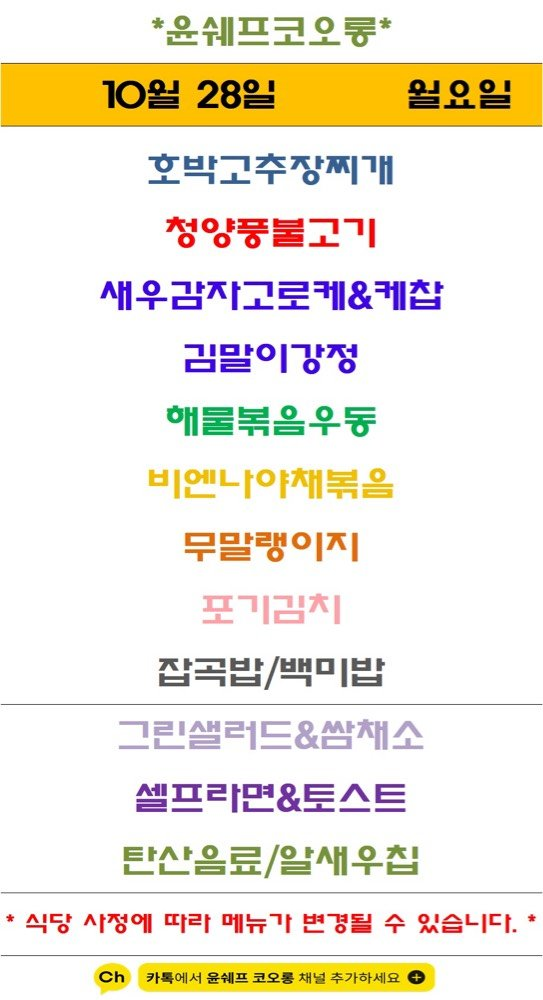
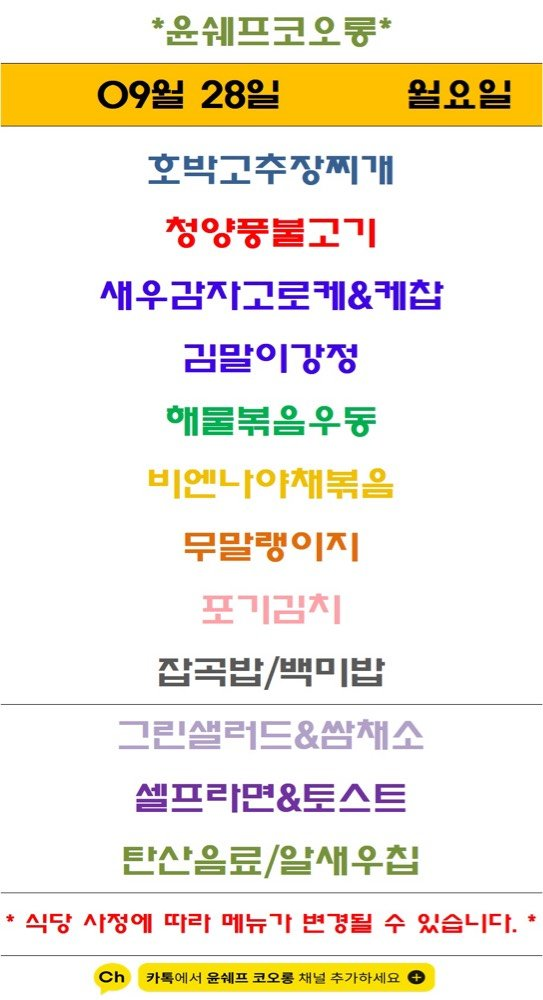
Update menu board assets

Changed region(s): [[0.1768, 0.062, 0.5304, 0.124]]

diff --git a/menu-today/index.html b/menu-today/index.html
@@ -209,7 +209,7 @@
 
     <section class="meta-bar">
       <div class="meta-card"><div class="meta-label">기준 날짜</div><div class="meta-value">2026년 9월 28일 월요일</div></div>
-      <div class="meta-card"><div class="meta-label">최종 가져온 시간</div><div class="meta-value">2026-09-28 09:16:00</div></div>
+      <div class="meta-card"><div class="meta-label">최종 가져온 시간</div><div class="meta-value">2026-09-28 09:33:25</div></div>
       <div class="meta-card"><div class="meta-label">확인 완료</div><div class="meta-value">9개 식당</div></div>
       <div class="meta-card"><div class="meta-label">준비중</div><div class="meta-value">3개 채널</div></div>
     </section>
@@ -235,7 +235,7 @@
             <div class="sub">가산 어반워크</div>
           </div>
         </div>
-        <div class="menu-inline-image"><img src="./images/dasibom.png" alt="다시 봄 식단 이미지"></div><div class="info-note">메뉴 이미지는 갱신됐고, 텍스트는 자동 확인 중입니다. 식단 이미지를 확인해 주세요.</div>
+        <div class="menu-inline-image"><img src="./images/dasibom.png" alt="다시 봄 식단 이미지"></div><ul><li>냉삼소금구이</li><li>순살마니커텐더켓</li><li>사천미트볼함박조림</li><li>새콤미역나물</li><li>싱싱샐러드</li><li>배추김치</li><li>바지락콩나물국</li><li>FW 심프비빔밥</li><li>빼 빌라면</li></ul>
       </article>
 
       <article class="restaurant-card">
@@ -295,7 +295,7 @@
             <div class="sub">에이스테크노타워10차</div>
           </div>
         </div>
-        <div class="menu-inline-image"><img src="./images/thefoodsketch.png" alt="더푸드스케치 식단 이미지"></div><ul><li>“= 파채불고기</li><li>스크랭블에그</li><li>= 치스토마토파스타</li><li>= 양송이떡갈비</li><li>명란버터두부조림</li><li>오이생채</li><li>가든샐러드 / 드레싱</li><li>배주끝절이 / 응료</li><li>어묵국</li></ul>
+        <div class="menu-inline-image"><img src="./images/thefoodsketch.png" alt="더푸드스케치 식단 이미지"></div><ul><li>“= 파채불고기</li><li>스크랭블에그</li><li>= 치스토마토파스타</li><li>= 양송이떡갈비</li><li>명란버터두부조림</li><li>오이생채</li><li>가든샐러드 &amp; 드레싱</li><li>배주끝절이 / 응료</li><li>어묵국</li></ul>
       </article>
 
       <article class="restaurant-card">

diff --git a/guro-menu/index.html b/guro-menu/index.html
@@ -32,7 +32,7 @@
   </header>
   <section class="meta">
     <div><small>기준 날짜</small><strong>2026년 9월 28일 월요일</strong></div>
-    <div><small>최종 갱신</small><strong>2026-09-28 09:16:14</strong></div>
+    <div><small>최종 갱신</small><strong>2026-09-28 09:33:42</strong></div>
     <div><small>등록 식당</small><strong>5개</strong></div>
   </section>
   <div class="notice">공개 카카오 채널의 메뉴 이미지를 자동 수집하고 OCR로 정리합니다. 텍스트에 오타가 있을 수 있으니 식단 이미지를 함께 확인해 주세요.</div>
@@ -104,7 +104,7 @@
         </div>
         <img class="menu-image" src="./images/yoon-chef-kolon.png" alt="윤쉐프 코오롱 식단 이미지" loading="lazy">
         <p class="message">최신 공개 식단 이미지의 텍스트입니다. 날짜는 원본 이미지를 확인해 주세요.</p>
-        <ul><li>호박고추장찌개</li><li>정양풍불고기</li><li>새우감자고로케&amp;케잡</li><li>러말이강정</li><li>해물볶음우동</li><li>무말랭이지</li><li>잡곡밥/백미밥</li><li>그린샐러드&amp;쌈채소</li><li>셀프라면&amp;토스트</li><li>탄산음료/알새우집</li></ul>
+        <ul><li>호박고추장찌개</li><li>정양풍불고기</li><li>새우감자고로케&amp;케잡</li><li>러말이강정</li><li>애물볶음우동</li><li>무말랭이지</li><li>잡곡밥/백미밥</li><li>그린샐러드&amp;쌈채소</li><li>셀프라면&amp;토스트</li><li>탄산음료/알새우칩</li></ul>
       </article>
   </section>
   <section class="seo" aria-label="검색 정보">한신IT타워 구내식당 자연푸드 구내식당 더이츠푸드 벽산더이룸 윤쉐프 코오롱 한신IT타워 벽산디지털밸리7차 대륭포스트타워1차 벽산디지털밸리1차 코오롱싸이언스밸리1차 서울 구로구 디지털로 272 한신IT타워 지하1층 서울 구로구 디지털로33길 50 벽산디지털밸리7차 지하1층 서울 구로구 디지털로 288 대륭포스트타워1차 지하1층 서울 구로구 디지털로27길 24 벽산디지털밸리1차 지하1층 서울 구로구 디지털로34길 43 코오롱싸이언스밸리1차 지하1층</section>
